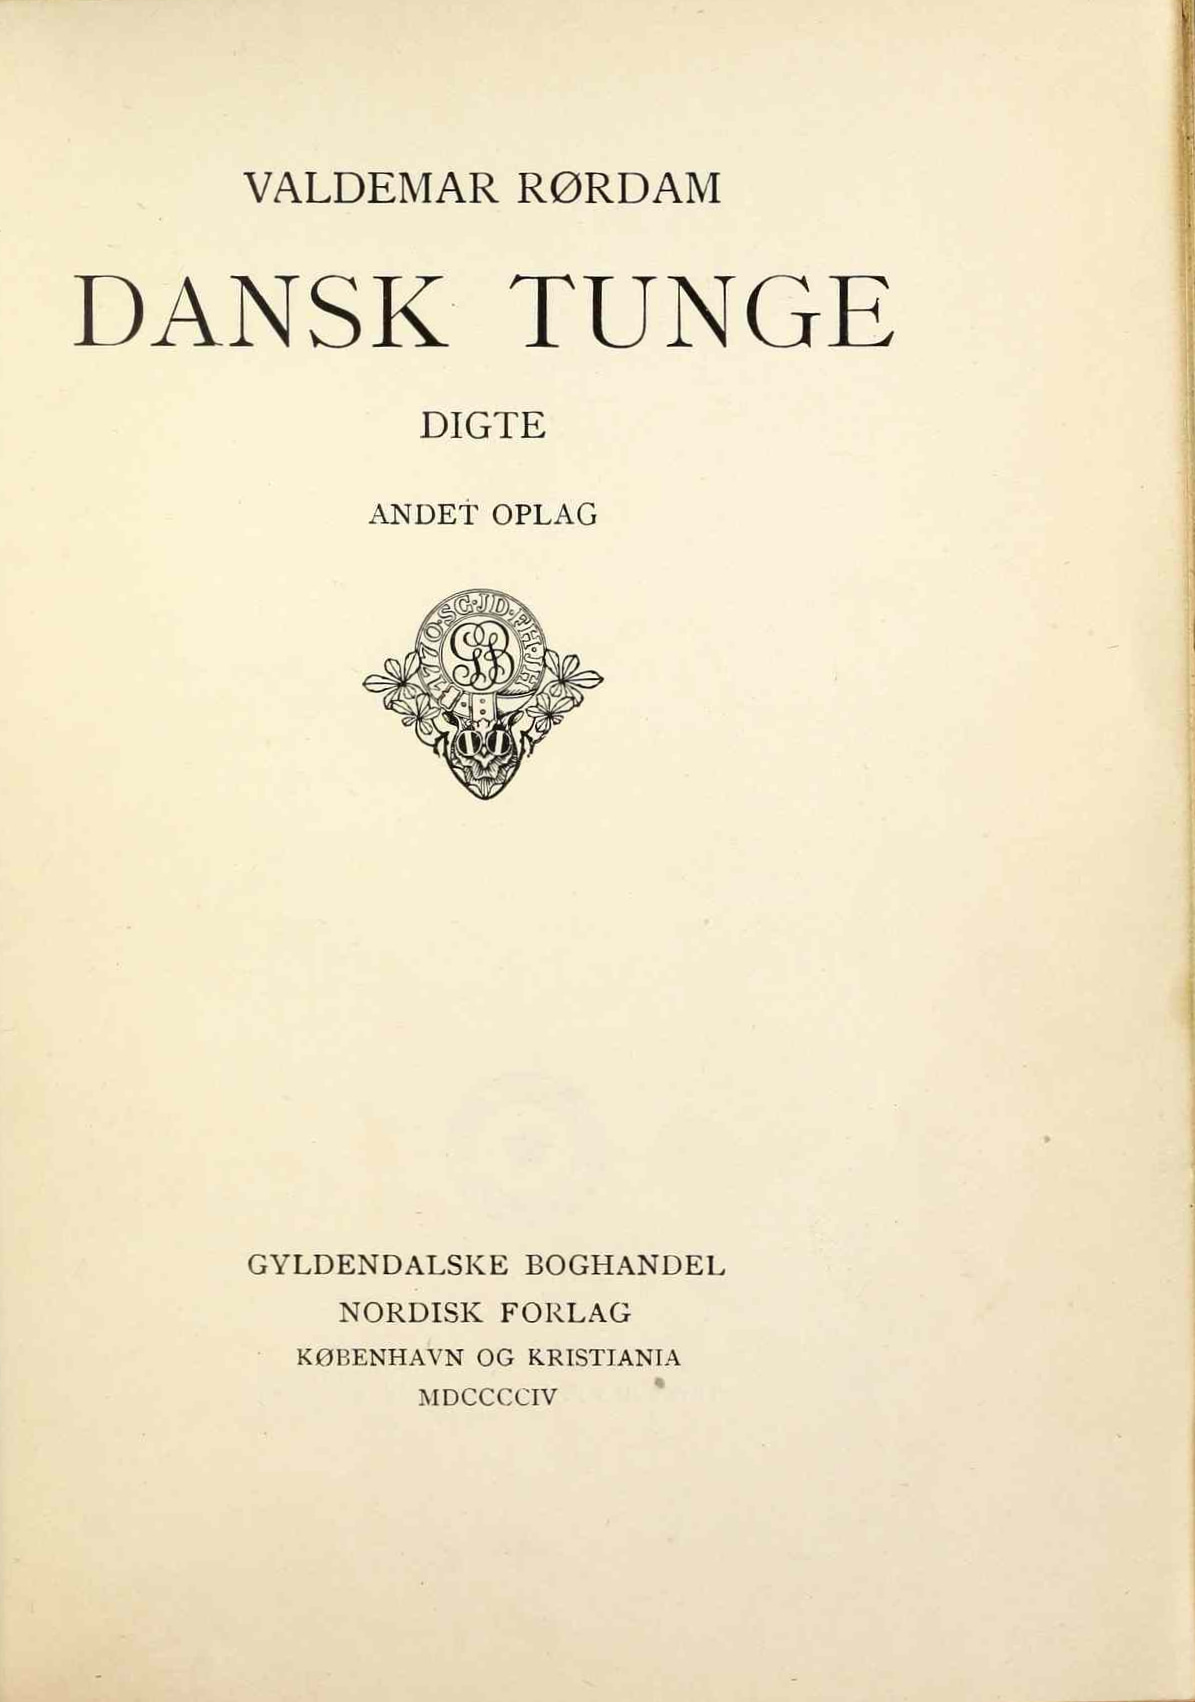
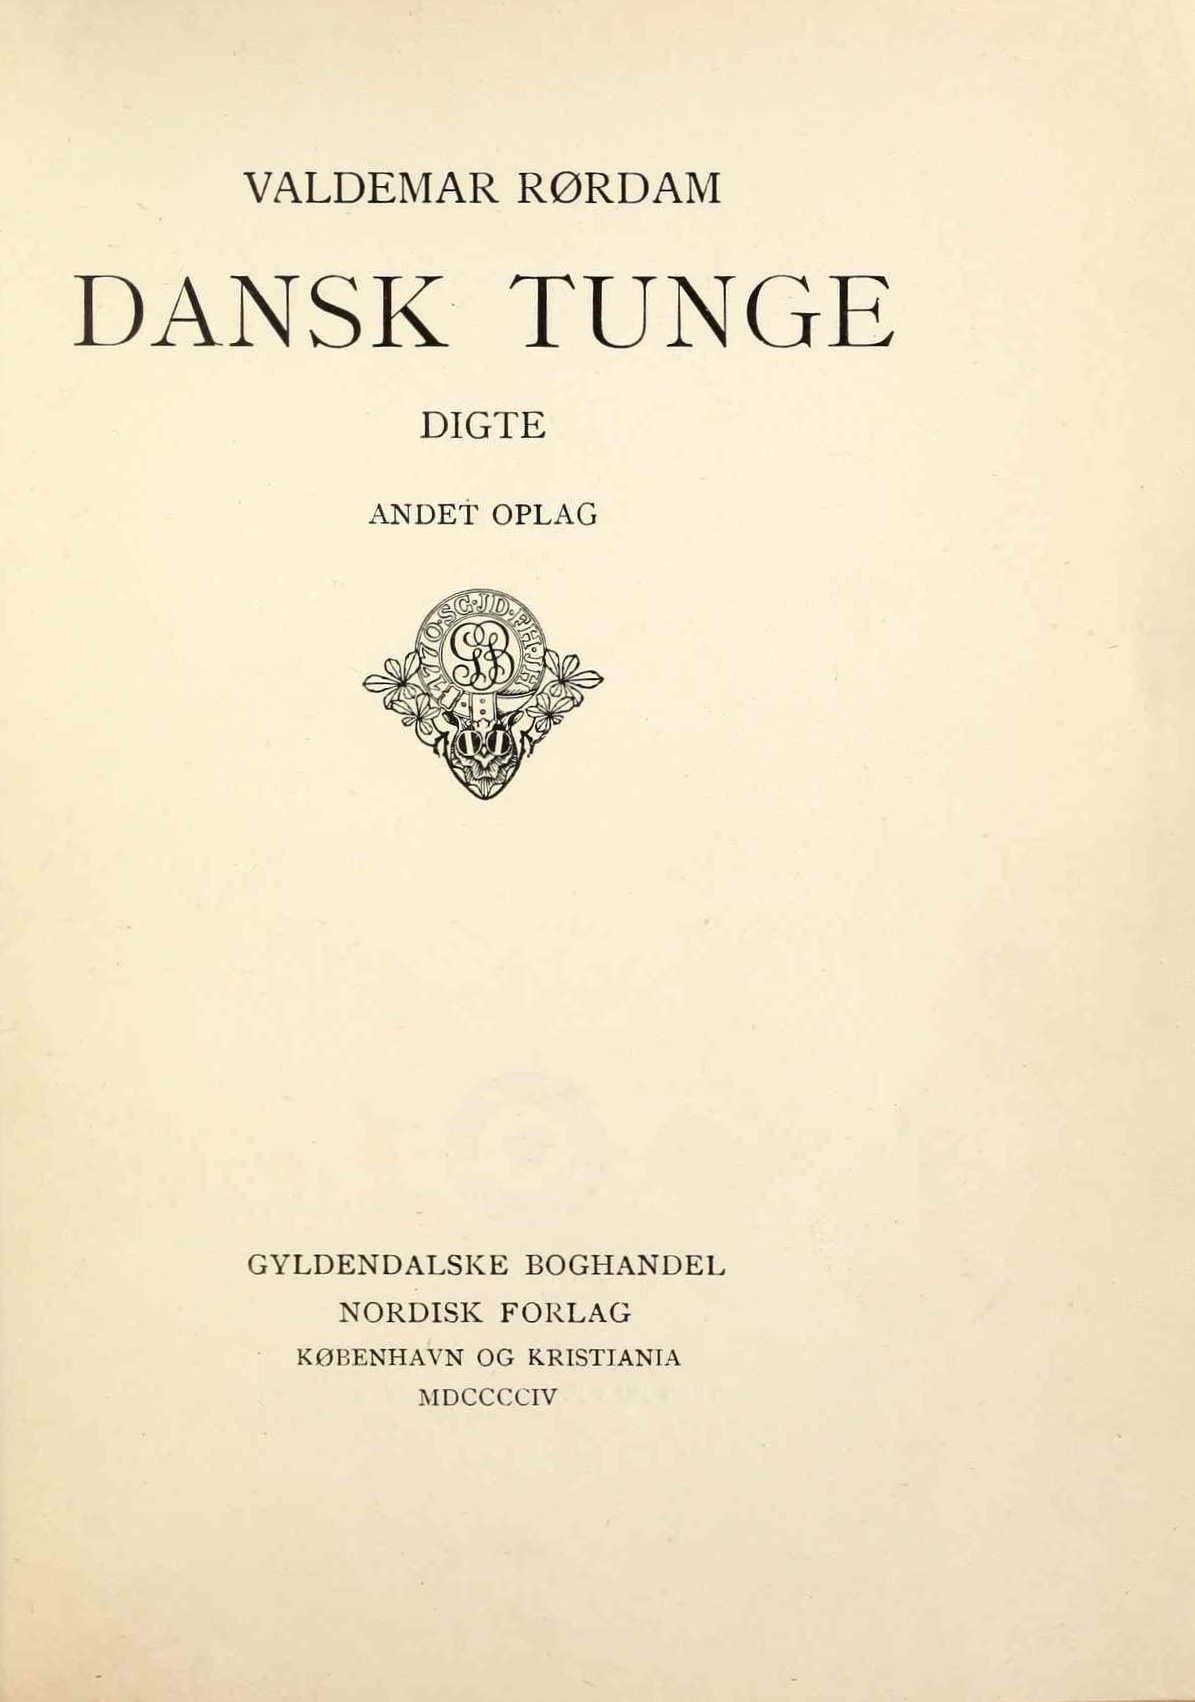
Nye billeder og en ny korpustest

Changed region(s): [[0.9598, 0.0, 1.0, 0.9342], [0.9908, 0.9965, 1.0, 1.0]]

diff --git a/__tests__/text-id.test.js b/__tests__/text-id.test.js
@@ -66,6 +66,89 @@ describe('text ids', () => {
     ]);
   });
 
+  it('rejects the section ids used in roerdam/1904a', () => {
+    const parsed = parseWorkTextIds(`
+      <kalliopework author="roerdam">
+        <workbody>
+          <section id="doedens-skygger"><content/></section>
+          <section id="blandede-digte"><content/></section>
+        </workbody>
+      </kalliopework>
+    `, 'fdirs/roerdam/1904a.xml');
+
+    expect(newTextIdErrors([], parsed.texts)).toEqual([
+      expect.stringContaining('doedens-skygger skal begynde med det effektive digter-id roerdam'),
+      expect.stringContaining('blandede-digte skal begynde med det effektive digter-id roerdam'),
+    ]);
+  });
+
+  it('inherits section authors and allows a nested author override', () => {
+    const parsed = parseWorkTextIds(`
+      <kalliopework author="antologierdk">
+        <workbody>
+          <section id="antologierdk2026081501">
+            <content>
+              <section id="aarestrup2026081501" author="aarestrup">
+                <content>
+                  <section><content><text id="aarestrup2026081502"/></content></section>
+                  <section id="winther2026081501" author="winther"><content/></section>
+                  <text id="oersted2026081501" author="oersted"/>
+                </content>
+              </section>
+            </content>
+          </section>
+        </workbody>
+      </kalliopework>
+    `);
+
+    expect(parsed.texts.map(({ id, poetId }) => ({ id, poetId }))).toEqual([
+      { id: 'antologierdk2026081501', poetId: 'antologierdk' },
+      { id: 'aarestrup2026081501', poetId: 'aarestrup' },
+      { id: 'aarestrup2026081502', poetId: 'aarestrup' },
+      { id: 'winther2026081501', poetId: 'winther' },
+      { id: 'oersted2026081501', poetId: 'oersted' },
+    ]);
+    expect(newTextIdErrors([], parsed.texts)).toEqual([]);
+  });
+
+  it.each([
+    ['anden2026081501', 'skal begynde'],
+    ['roerdam1904a1', 'YYYYMMDD'],
+    ['roerdam2026023001', 'ugyldige dato'],
+    ['roerdam2026081500', 'positivt løbenummer'],
+  ])('applies the text id rule to section id %s', (id, message) => {
+    const parsed = parseWorkTextIds(`
+      <kalliopework author="roerdam"><workbody><section id="${id}"/></workbody></kalliopework>
+    `);
+
+    expect(newTextIdErrors([], parsed.texts)).toEqual([
+      expect.stringContaining(message),
+    ]);
+  });
+
+  it('checks sections and texts in the same id namespace', () => {
+    const parsed = parseWorkTextIds(`
+      <kalliopework author="roerdam">
+        <workbody>
+          <section id="roerdam2026081501"><content><text id="roerdam2026081501"/></content></section>
+        </workbody>
+      </kalliopework>
+    `);
+
+    expect(newTextIdErrors([], parsed.texts)).toEqual([
+      expect.stringContaining('forekommer flere gange'),
+    ]);
+  });
+
+  it('preserves existing section ids when validating a revision', () => {
+    const parsed = parseWorkTextIds(`
+      <kalliopework author="roerdam"><workbody><section id="gammelt-id"/></workbody></kalliopework>
+    `);
+
+    expect(parsed.texts).toHaveLength(1);
+    expect(newTextIdErrors(parsed.texts, parsed.texts)).toEqual([]);
+  });
+
   it('generates an anthology id from the work author', () => {
     const directory = fs.mkdtempSync(path.join(os.tmpdir(), 'kalliope-text-id-'));
     const corpusDirectory = path.join(directory, 'fdirs');
@@ -75,7 +158,10 @@ describe('text ids', () => {
       const filename = path.join(anthologyDirectory, 'test.xml');
       fs.writeFileSync(filename, `
         <kalliopework author="antologierdk">
-          <workbody><text id="antologierdk2026081501"/></workbody>
+          <workbody>
+            <text id="antologierdk2026081501"/>
+            <section id="antologierdk2026081503"/>
+          </workbody>
         </kalliopework>
       `);
 
@@ -83,7 +169,7 @@ describe('text ids', () => {
         corpusDirectory,
         dateStamp: '20260815',
         filename,
-      })).toBe('antologierdk2026081502');
+      })).toBe('antologierdk2026081504');
       expect(generateTextId({
         author: 'aarestrup',
         corpusDirectory,

diff --git a/tools/libs/text-id.js b/tools/libs/text-id.js
@@ -1,4 +1,5 @@
 import { DOMParser } from '@xmldom/xmldom';
+import { resolveAuthorId } from '../build-static/anthologies.js';
 
 const dateStampPattern = /^(\d{4})(\d{2})(\d{2})$/;
 
@@ -108,13 +109,11 @@ export const parseWorkTextIds = (xml, filename = '(ukendt fil)') => {
   }
 
   const workAuthor = work.getAttribute('author') ?? '';
-  const texts = Array.from(work.getElementsByTagName('text'))
+  const texts = Array.from(work.getElementsByTagName('*'))
+    .filter(element => element.nodeName === 'text' || element.nodeName === 'section')
     .map(text => {
       const id = text.getAttribute('id') ?? '';
-      const textAuthor = text.getAttribute('author');
-      const poetId = textAuthor != null && textAuthor.length > 0
-        ? textAuthor
-        : workAuthor;
+      const poetId = resolveAuthorId(text, workAuthor);
 
       return { filename, id, poetId };
     })

diff --git a/__tests__/corpus/text-ids.test.js b/__tests__/corpus/text-ids.test.js
@@ -1,0 +1,21 @@
+import { execFileSync } from 'child_process';
+import { loadTrackedWorkFiles } from '../../tools/libs/work-files.js';
+import { parseWorkTextIds } from '../../tools/libs/text-id.js';
+import {
+  collectTextIdsAtRef,
+  newTextIdErrors,
+} from '../../tools/validate-new-text-ids.js';
+
+describe('tracked work corpus text and section ids', () => {
+  it('validates new ids against the shared poet, date, and sequence rule', () => {
+    const baseRef = execFileSync('git', ['merge-base', 'origin/master', 'HEAD'], {
+      encoding: 'utf8',
+    }).trim();
+    const baseTexts = collectTextIdsAtRef(baseRef);
+    const headTexts = loadTrackedWorkFiles().flatMap(({ content, filename }) =>
+      parseWorkTextIds(content, filename).texts,
+    );
+
+    expect(newTextIdErrors(baseTexts, headTexts)).toEqual([]);
+  });
+});

diff --git a/docs/xml-work-format.md b/docs/xml-work-format.md
@@ -306,7 +306,7 @@ Attributter paa `<text>`:
 
 #### Tekst-id
 
-Nye tekst-id'er består af tekstens effektive digter-id, oprettelsesdatoen i
+Nye id'er på `<text>` og `<section>` består af det effektive digter-id, oprettelsesdatoen i
 formatet `YYYYMMDD` og et løbenummer på mindst to cifre:
 
 ```text
@@ -314,11 +314,12 @@ winther2018081001
 winther2018081002
 ```
 
-Det effektive digter-id er `text/@author`, når attributten findes, og ellers
-værkets `kalliopework/@author`. En tekst uden `author` i et værk med
+Det effektive digter-id findes i elementets eget `author`, derefter i den
+nærmeste omsluttende sektions `author` og ellers i værkets
+`kalliopework/@author`. En tekst uden arvet eller eget `author` i et værk med
 `author="antologierdk"` får derfor eksempelvis id'et
 `antologierdk2026081501`. Løbenumre må ikke genbruges, hvis en tekst slettes
-eller sammenlægges.
+eller sammenlægges. Tekster og sektioner deler id-navnerum og løbenumre.
 
 Næste ledige id kan genereres uden at ændre værkfilen:
 
@@ -327,9 +328,11 @@ npm run new-text-id -- fdirs/antologierdk/1872.xml
 npm run new-text-id -- fdirs/antologierdk/1872.xml --author aarestrup
 ```
 
-CI sammenligner tekst-id'erne semantisk mellem base- og HEAD-committen. Kun
+CI sammenligner tekst- og section-id'erne semantisk mellem base- og HEAD-committen. Kun
 id'er, der ikke fandtes i base-committen, håndhæves efter dette format, så
 historiske id-formater fortsat kan bevares uændret.
+Korpustesten sammenligner arbejdsfilerne med den fælles base for `origin/master`
+og `HEAD`, så nye id'er også kontrolleres lokalt inden commit.
 
 ### Text head
 
@@ -841,7 +844,7 @@ fritager ikke den enkeltstående dobbelte afstand.
 Sektioner grupperer tekster og kan nestes:
 
 ```xml
-<section id="del-1" author="hansenfj" level="2">
+<section id="hansenfj2026081501" author="hansenfj" level="2">
   <head>
     <title>Foerste del</title>
   </head>
@@ -854,6 +857,7 @@ Sektioner grupperer tekster og kan nestes:
 Attributter paa `<section>`:
 
 - `id`: gor sektionen linkbar og giver den egen tekstside med intern TOC.
+  Nye id'er følger samme format og validering som tekst-id'er.
 - `author`: valgfrit forfatter-id, som arves af alle tekster og undersektioner.
   Et `author` direkte paa en indlejret `<section>` eller `<text>` overskriver den
   arvede forfatter i den paagaeldende gren.
